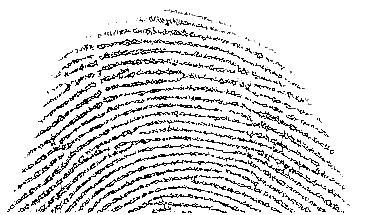
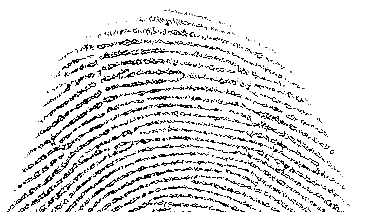
Szakdoga 4!

diff --git a/Common/functions.py b/Common/functions.py
@@ -339,8 +339,30 @@ def connectedpath(img, row, col):
     return True
 
 
+# Returns the maximum neighbours value in the 3x3 neighbourhood
+def open(img, row, col):
+    x = int(img[row][col])
+    if int(img[row][col + 1]) > x:
+        x = int(img[row][col + 1])
+    if int(img[row - 1][col + 1]) > x:
+        x = int(img[row - 1][col + 1])
+    if int(img[row - 1][col]) > x:
+        x = int(img[row - 1][col])
+    if int(img[row - 1][col - 1]) > x:
+        x = int(img[row - 1][col - 1])
+    if int(img[row][col - 1]) > x:
+        x = int(img[row][col - 1])
+    if int(img[row + 1][col - 1]) > x:
+        x = int(img[row + 1][col - 1])
+    if int(img[row + 1][col]) > x:
+        x = int(img[row + 1][col])
+    if int(img[row + 1][col + 1]) > x:
+        x = int(img[row + 1][col + 1])
+    return x
+
+
 # Returns the minimum neighbours value in the 3x3 neighbourhood
-def nearneighbourmin(img, row, col):
+def erosion(img, row, col):
     x = int(img[row][col])
     if int(img[row][col + 1]) < x:
         x = int(img[row][col + 1])
@@ -361,40 +383,40 @@ def nearneighbourmin(img, row, col):
     return x
 
 
-# Returns the minimum value in the 5x5 neighbourhood
-def farneighbourmin(img, row, col):
-    x = nearneighbourmin(img, row, col)
-    if int(img[row][col + 2]) < x:
+# Returns the maximum value in the 5x5 neighbourhood
+def openfar(img, row, col):
+    x = open(img, row, col)
+    if int(img[row][col + 2]) > x:
         x = int(img[row][col + 2])
-    if int(img[row - 1][col + 2]) < x:
+    if int(img[row - 1][col + 2]) > x:
         x = int(img[row - 1][col + 2])
-    if int(img[row - 2][col + 2]) < x:
+    if int(img[row - 2][col + 2]) > x:
         x = int(img[row - 2][col + 2])
-    if int(img[row - 2][col + 1]) < x:
+    if int(img[row - 2][col + 1]) > x:
         x = int(img[row - 2][col + 1])
-    if int(img[row - 2][col]) < x:
+    if int(img[row - 2][col]) > x:
         x = int(img[row - 2][col])
-    if int(img[row - 2][col - 1]) < x:
+    if int(img[row - 2][col - 1]) > x:
         x = int(img[row - 2][col - 1])
-    if int(img[row - 2][col - 2]) < x:
+    if int(img[row - 2][col - 2]) > x:
         x = int(img[row - 2][col - 2])
-    if int(img[row - 1][col - 2]) < x:
+    if int(img[row - 1][col - 2]) > x:
         x = int(img[row - 1][col - 2])
-    if int(img[row][col - 2]) < x:
+    if int(img[row][col - 2]) > x:
         x = int(img[row][col - 2])
-    if int(img[row + 1][col - 2]) < x:
+    if int(img[row + 1][col - 2]) > x:
         x = int(img[row + 1][col - 2])
-    if int(img[row + 2][col - 2]) < x:
+    if int(img[row + 2][col - 2]) > x:
         x = int(img[row + 2][col - 2])
-    if int(img[row + 2][col - 1]) < x:
+    if int(img[row + 2][col - 1]) > x:
         x = int(img[row + 2][col - 1])
-    if int(img[row + 2][col]) < x:
+    if int(img[row + 2][col]) > x:
         x = int(img[row + 2][col])
-    if int(img[row + 2][col + 1]) < x:
+    if int(img[row + 2][col + 1]) > x:
         x = int(img[row + 2][col + 1])
-    if int(img[row + 2][col + 2]) < x:
+    if int(img[row + 2][col + 2]) > x:
         x = int(img[row + 2][col + 2])
-    if int(img[row + 1][col + 2]) < x:
+    if int(img[row + 1][col + 2]) > x:
         x = int(img[row + 1][col + 2])
     return x
 
@@ -441,6 +463,16 @@ def countf(img, row, col):
         f8 = 1
     else:
         f8 = 0
-    x = [f1, f2, f3, f4, f5, f6, f7, f8, f1]
-    f = len(list(itertools.groupby(x, lambda x: x > 0))) - (x[0] > 0)
-    return f
+    X = [f1, f2, f3, f4, f5, f6, f7, f8, f1]
+    last_sign = 0
+    sign_changes = 0
+
+    for x in X:
+        if x == 0:
+            continue
+        elif x == 1:
+            if last_sign == -1:
+                sign_changes += 1
+        last_sign = x
+
+    return sign_changes

diff --git a/Kim/szakdoga4.py b/Kim/szakdoga4.py
@@ -2,11 +2,12 @@ import cv2
 import bcolors
 from Common.functions import imreadgray
 from Common.functions import flip
-from Common.functions import nearneighbourmin
-from Common.functions import farneighbourmin
+from Common.functions import open
+from Common.functions import openfar
 from Common.functions import equalmatrix
 from Common.functions import makeequalmatrix
 from Common.functions import countf
+from Common.functions import erosion
 
 print(bcolors.OK, " _  ___             _                  _____ _           _ ")
 print(" | |/ (_)           | |                / ____| |         (_)")
@@ -16,7 +17,7 @@ print(" | . \| | | | | | | | |___|  __/  __/ | |____| | | | (_) | |")
 print(" |_|\_\_|_| |_| |_| |______\___|\___|  \_____|_| |_|\___/|_|", bcolors.ENDC)
 
 # Reading in the image as a gray image
-picture = 'chromosomemini'
+picture = 'fingerprintmini'
 
 img = imreadgray('../Common/' + picture + '.png')
 img2 = imreadgray('../Common/' + picture + '.png')
@@ -40,13 +41,12 @@ flip(O1)
 flip(O2)
 
 # Initialization
-h = 100
+h = 10
 size = img.shape
 for row in range(0, size[0]):
     for col in range(0, size[1]):
         O1[row][col] = 0
         O2[row][col] = 0
-        comp[row][col] = 0
         E[row][col] = 0
         R[row][col] = 0
         compstar[row][col] = 0
@@ -54,42 +54,51 @@ for row in range(0, size[0]):
 equal = True
 lepes = 1
 
-print(img)
+print('Comp:', comp)
 
 while equal:
 
+    # Erosion
     for row in range(1, size[0] - 1):
         for col in range(1, size[1] - 1):
-            E[row][col] = nearneighbourmin(comp, row, col)
+            E[row][col] = erosion(comp, row, col)
+    # print('E:', E)
 
     # Ridge detection
     for row in range(2, size[0] - 2):
         for col in range(2, size[1] - 2):
-            O1[row][col] = nearneighbourmin(img, row, col)
-            O2[row][col] = farneighbourmin(img, row, col)
+            O1[row][col] = open(img, row, col)
+            O2[row][col] = openfar(img, row, col)
 
     for row in range(1, size[0] - 1):
         for col in range(1, size[1] - 1):
-            if (int(img[row][col]) - int(O1[row][col]) > 0) and int(img[row][col]) - int(O2[row][col]) > h:
-                R[row][col] = img[row][col]
+            if (int(comp[row][col]) - int(O1[row][col]) > 0) and int(comp[row][col]) - int(O2[row][col]) > h:
+                R[row][col] = comp[row][col]
             else:
                 R[row][col] = 0
+    # print('R:', R)
 
     # Comp*
     for row in range(1, size[0] - 1):
         for col in range(1, size[1] - 1):
             compstar[row][col] = max(int(E[row][col]), int(R[row][col]))
 
+    # print('Comp*:', compstar)
+
     # C8 matrix
     for row in range(1, size[0] - 1):
         for col in range(1, size[1] - 1):
             c8[row][col] = countf(comp, row, col)
 
+    # print('c8 :', c8)
+
     # Connectivity restoration
     for row in range(1, size[0] - 1):
-        for col in range(2, size[1] - 1):
+        for col in range(1, size[1] - 1):
             if R[row][col] == 0 and c8[row][col] >= 2:
                 compstar[row][col] = comp[row][col]
+
+    # print('Comp*:', compstar)
 
     makeequalmatrix(comp, compstar, size)
 

diff --git a/Kang_et_al/szakdoga3.py b/Kang_et_al/szakdoga3.py
@@ -18,7 +18,7 @@ print("                   __/ |                                        ")
 print("                  |___/                                         ", bcolors.ENDC, '\n')
 
 # Beolvasás szürkeárnyalatos képként
-picture = 'test2'
+picture = 'fingerprintmini'
 
 img = imreadgray('../Common/' + picture + '.png')
 img2 = imreadgray('../Common/' + picture + '.png')
@@ -52,26 +52,26 @@ print(img, '\n')
 for row in range(1, size[0] - 1):
     for col in range(1, size[1] - 1):
         if img[row][col] != 0:
-            if int(img[row - 1][col]) <= int(img[row][col]) and int(img[row - 1][col]) != 0:
+            if img[row - 1][col] <= img[row][col] and img[row - 1][col] != 0:
                 psi[row][col] += 1
-            if int(img[row - 1][col - 1]) <= int(img[row][col]) and int(img[row - 1][col - 1]) != 0:
+            if img[row - 1][col - 1] <= img[row][col] and img[row - 1][col - 1] != 0:
                 psi[row][col] += 1
-            if int(img[row][col - 1]) <= int(img[row][col]) and int(img[row][col - 1]) != 0:
+            if img[row][col - 1] <= img[row][col] and img[row][col - 1] != 0:
                 psi[row][col] += 1
-            if int(img[row + 1][col - 1]) <= int(img[row][col]) and int(img[row + 1][col - 1]) != 0:
+            if img[row + 1][col - 1] <= img[row][col] and img[row + 1][col - 1] != 0:
                 psi[row][col] += 1
-            if int(img[row + 1][col]) <= int(img[row][col]) and int(img[row + 1][col]) != 0:
+            if img[row + 1][col] <= img[row][col] and img[row + 1][col] != 0:
                 psi[row][col] += 1
-            if int(img[row + 1][col + 1]) <= int(img[row][col]) and int(img[row + 1][col + 1]) != 0:
+            if img[row + 1][col + 1] <= img[row][col] and img[row + 1][col + 1] != 0:
                 psi[row][col] += 1
-            if int(img[row][col + 1]) <= int(img[row][col]) and int(img[row][col + 1]) != 0:
+            if img[row][col + 1] <= img[row][col] and img[row][col + 1] != 0:
                 psi[row][col] += 1
-            if int(img[row - 1][col + 1]) <= int(img[row][col]) and int(img[row - 1][col + 1]) != 0:
+            if img[row - 1][col + 1] <= img[row][col] and img[row - 1][col + 1] != 0:
                 psi[row][col] += 1
 
 for row in range(1, size[0] - 1):
     for col in range(1, size[1] - 1):
-        if psi[row][col] == 6:
+        if psi[row][col] == 5:
             helper[row][col] = 5
         if psi[row][col] >= 6:
             skeleton[row][col] = psi[row][col]
@@ -101,11 +101,6 @@ for i in range(3):
 print(bcolors.WARN, 'Initial skeleton', bcolors.ENDC)
 print(bcolors.ERR, 'Deleted:', deleted, bcolors.ENDC)
 print(img2)
-
-for row in range(1, size[0] - 1):
-    for col in range(1, size[1] - 1):
-        if psi[row][col] == 5 and (img2[row + 1][col] >= 100 or img2[row - 1][col] >= 100 or img2[row][col + 1] >= 100 or img2[row][col - 1] >= 100):
-            img2[row][col] = img[row][col]
 
 print(img2)
 

diff --git a/Common/test.py b/Common/test.py
@@ -1,25 +1,15 @@
-from Common.functions import imreadgray
-from Common.functions import flip
+X = [1, 0, -1, 0, 1, 0, -1, 0, 1, -1]
+print(X)
 
-picture = 'fingerprintmini'
-img = imreadgray('../Common/' + picture + '.png')
-flip(img)
+last_sign = 0
+sign_changes = 0
 
-size = img.shape
-hist = [0] * 256
-maxima = 0
-maximum = 0
-
-for row in range(size[0]):
-    for col in range(size[1]):
-        hist[int(img[row][col])] += 1
-
-for max in range(256):
-    if max == 0:
+for x in X:
+    if x == 0:
         continue
-    if maxima < hist[max]:
-        maxima = hist[max]
-        maximum = max
+    elif x == 1:
+        if last_sign == -1:
+            sign_changes += 1
+    last_sign = x
 
-print(hist)
-print(maximum)
+print(sign_changes)

diff --git a/SalariSiy1984/szakdoga2.py b/SalariSiy1984/szakdoga2.py
@@ -20,7 +20,7 @@ print("                                              __/ |")
 print("                                             |___/ ", bcolors.ENDC)
 
 # Reading in the pictures as a gray picture
-picture = 'test2'
+picture = 'chinese'
 
 img = imreadgray('../Common/' + picture + '.png')
 img2 = imreadgray('../Common/' + picture + '.png')
